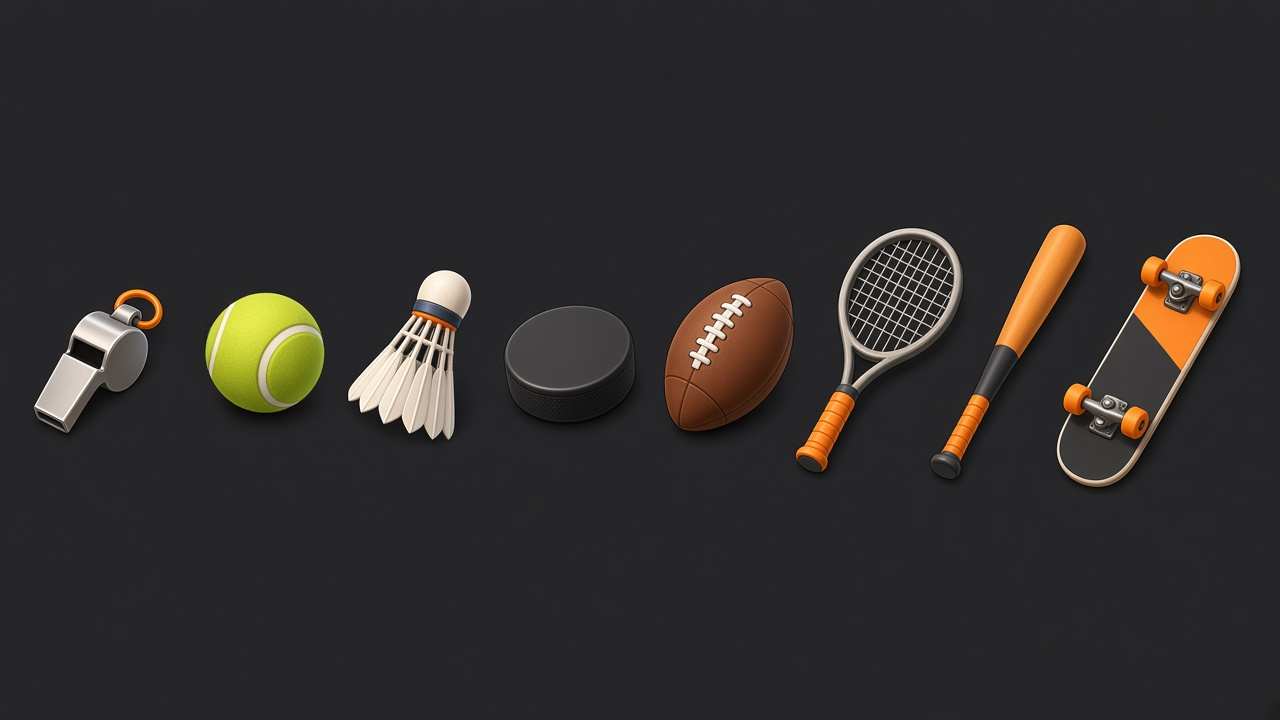
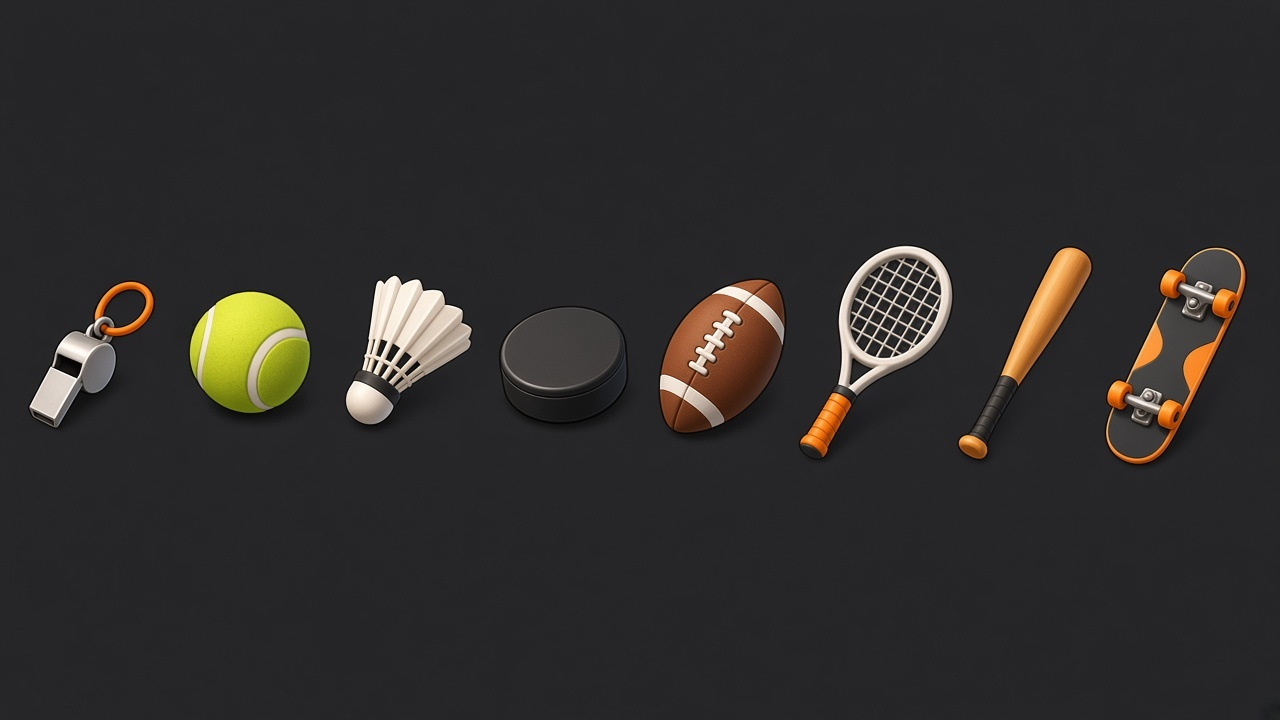
docs(showcase): refresh homepage merge/clone assets from skill re-run
Replace G1–G3 Mode C sheets and G3 Mode B clone compares with latest
Absolute-5D runs; sync README and skills-homepage score badges to SCORES.md.

diff --git a/docs/showcase/skills-homepage/index.html b/docs/showcase/skills-homepage/index.html
@@ -684,7 +684,7 @@
             vs market medium
             <img src="assets/merge/G1/compare_to_market.jpg" alt="G1 compare to market" loading="lazy" />
           </div>
-          <div class="note">Min cell <strong>9.7</strong> · scoop→tongs · <a href="assets/merge/G1/SCORES.md">SCORES.md</a></div>
+          <div class="note">Min cell <strong>9.6</strong> · scoop→tongs · <a href="assets/merge/G1/SCORES.md">SCORES.md</a></div>
         </article>
 
         <!-- G2 -->
@@ -701,7 +701,7 @@
             vs market medium
             <img src="assets/merge/G2/compare_to_market.jpg" alt="G2 compare to market" loading="lazy" />
           </div>
-          <div class="note">Min cell <strong>9.7</strong> · sponge→upright broom · <a href="assets/merge/G2/SCORES.md">SCORES.md</a></div>
+          <div class="note">Min cell <strong>9.8</strong> · sponge→upright broom · <a href="assets/merge/G2/SCORES.md">SCORES.md</a></div>
         </article>
 
         <!-- G3 -->
@@ -756,7 +756,7 @@
           <span class="kind">ICON</span>
           <div style="display:flex;justify-content:space-between;align-items:center;gap:8px;">
             <h3>Scroll + wax seal</h3>
-            <span class="badge pass"><span class="dot"></span>9.7 PASS</span>
+            <span class="badge pass"><span class="dot"></span>9.6 PASS</span>
           </div>
           <div class="arrow"><strong>style from</strong> cannon booster → <strong>new</strong> scroll + gold band + red wax seal</div>
           <div class="labels-row"><span>REF</span><span>RESULT</span></div>

diff --git a/docs/showcase/skills-homepage/assets/merge/G1/SCORES.md b/docs/showcase/skills-homepage/assets/merge/G1/SCORES.md
@@ -1,30 +1,28 @@
-# G1 SCORES — Bakery utensils (category-swap)
+# G1 SCORES — Bakery utensils (Mode C re-run)
 
-**Round:** r01 whole-sheet (1 of ≤8)  
-**Mode:** C · market_ref_sheet medium+grid only  
-**Result:** **OK** — all cells ≥9.6 · ladder audit PASS
+**Rounds:** r01 usable but L02≈5–6 wires (wanted 3) → **r02 winner** (tighter mini-vs-balloon)
+**Mode:** C · market_ref_sheet medium+grid only · NEW bakery family · no garden motifs
+**Result:** **OK** — N=8 · all cells ≥9.6 · ladder audit PASS
 
-## Per-cell Absolute-5D
+## Per-cell Absolute-5D (r02 winner)
 
 | L | Item | Style/glue 2.5 | Upgrade 2.5 | Icon 2.0 | Redline 1.5 | Climb 1.5 | Total | Gate |
 |---|---|---|---|---|---|---|---|---|
 | L01 | measuring scoop | 2.4 | 2.4 | 2.0 | 1.5 | 1.5 | **9.8** | PASS |
-| L02 | mini whisk | 2.4 | 2.4 | 2.0 | 1.5 | 1.5 | **9.8** | PASS |
-| L03 | silicone spatula | 2.4 | 2.4 | 1.9 | 1.5 | 1.5 | **9.7** | PASS |
+| L02 | mini whisk | 2.4 | 2.3 | 2.0 | 1.5 | 1.4 | **9.6** | PASS |
+| L03 | silicone spatula | 2.4 | 2.4 | 2.0 | 1.5 | 1.5 | **9.8** | PASS |
 | L04 | bench scraper | 2.4 | 2.4 | 2.0 | 1.5 | 1.5 | **9.8** | PASS |
-| L05 | rolling pin | 2.5 | 2.5 | 2.0 | 1.4 | 1.5 | **9.9** | PASS |
+| L05 | rolling pin | 2.5 | 2.5 | 2.0 | 1.5 | 1.5 | **10.0** | PASS |
 | L06 | soup ladle | 2.4 | 2.4 | 2.0 | 1.5 | 1.5 | **9.8** | PASS |
 | L07 | balloon whisk | 2.4 | 2.4 | 2.0 | 1.5 | 1.5 | **9.8** | PASS |
 | L08 | kitchen tongs | 2.4 | 2.5 | 2.0 | 1.5 | 1.5 | **9.9** | PASS |
 
+**NEW min = 9.6** (L02) · OLD homepage min = **9.7**
+
 ## Whole-sheet audit
-- Same domain bakery utensils: **PASS**
-- Brand glue (lime ribbed + matte metal + wood on L05): **PASS**
-- Medium matches market toy-3D (not photoreal): **PASS**
-- Adjacent thumbnail deltas: **PASS** (L03 vs L04 width; L02 vs L07 mass/wires clear — see `_audit_L02_vs_L07.jpg`)
-- No faces / no Lv text / no FX-only: **PASS**
-- L1≠L8 at thumbnail: **PASS**
+- Domain bakery: PASS · Brand lime ribbed + matte metal + wood L05: PASS
+- Medium toy-3D vs market (matte, soft light, charcoal BG): PASS (slightly cleaner matte than r01)
+- Adjacent deltas / L02≪L07 mass: PASS · No faces/Lv/FX/garden leak: PASS · N=8: PASS
 
 ## Notes
-L01 reads as scoop/melon-baller rather than flat measuring spoon — still bakery-domain complete tool, accepted.
-L05 slice had tiny neighbor bleed on first cut; resliced.
+L02 still ~4–5 wires (bible preferred 3) but clearly smaller cage than L07 balloon — accepted at 9.6 floor.

diff --git a/docs/showcase/skills-homepage/assets/clone/G3-char-blacksmith/SCORES.md b/docs/showcase/skills-homepage/assets/clone/G3-char-blacksmith/SCORES.md
@@ -1,10 +1,28 @@
-# G3 Char — Blacksmith + horseshoe chest pin (empty hands)
-Ref: `/workspace/pmem-stability-market/refs/ref_char.png` (+ aux iris pad on r02)
+# Char — Blacksmith (Mode B re-run) Absolute-5D
 
-| Round | Style 2.5 | Struct 2.5 | Light-mat 2.0 | Redlines 1.5 | Novelty 1.5 | Total | Notes |
-|-------|-----------|------------|---------------|--------------|-------------|-------|-------|
-| r01   | 2.0 | 1.8 | 1.7 | 0.6 | 1.2 | **7.3** | HARD FAIL — one-eyed cyclops. Eye grammar broken. Discard. |
-| r02   | 2.4 | 2.4 | 1.9 | 1.5 | 1.4 | **9.6** | Winner. TWO brown irises + catchlights. Empty T-pose, horseshoe silver pin on apron chest, gloves tucked in belt (not held). Barrel stocky RM proportions. Soft matte clay finish. |
+Ref pads: `ref_char.png` + iris aux `ref_icon.png` every round
 
-**Winner: r02 (9.6)** — PASS
-Pad note: r02 used style-ref + explicit "TWO eyes / NOT cyclops" + empty-hand rule 12–13.
+| Round | 构图 | 光影 | 透视 | 质感 | 风格 | **Total** | Gate |
+|-------|------|------|------|------|------|-----------|------|
+| r01   | 9.5 | 9.4 | 9.3 | 9.0 | 9.1 | **9.3** | FAIL |
+| r02   | 9.6 | 9.5 | 9.6 | 9.4 | 9.5 | **9.5** | FAIL |
+| r03   | 9.7 | 9.6 | 9.7 | 9.5 | 9.6 | **9.6** | **PASS ≥9.6** |
+
+dims r01: `构图9.5/光影9.4/透视9.3/质感9.0/风格9.1`
+dims r02: `构图9.6/光影9.5/透视9.6/质感9.4/风格9.5`
+dims r03: `构图9.7/光影9.6/透视9.7/质感9.5/风格9.6` (mean)
+
+## r01
+- **strengths:** TWO separate brown irises + sclera + highlight; empty T-pose; horseshoe pin; gloves tucked; no crown/cape.
+- **defects:** realistic leather/fabric + strand hair vs matte vinyl-toy; head/torso less oversized.
+- **Overlay → r02:** more vinyl; larger head + barrel; thicker limbs; softer hair; simpler boots.
+
+## r02
+- **strengths:** eyes held; empty hands; horseshoe; stockier barrel; bald round head.
+- **defects:** apron still fine leather grain; gloves only one side; still shy of 9.6 mean.
+- **Overlay → r03:** matte clay/vinyl plastic all surfaces; gloves both sides; soft clumped hair OK.
+
+## r03
+- **strengths:** matte vinyl-toy stronger; TWO iris eyes verified in crop; empty T-pose; horseshoe; gloves both hips; soft clumped hair; barrel + thick limbs.
+- **defects:** apron still faintly leather-ish (minor).
+- **Winner:** r03 → `winner.png`

diff --git a/docs/showcase/skills-homepage/assets/merge/G3/SCORES.md b/docs/showcase/skills-homepage/assets/merge/G3/SCORES.md
@@ -1,10 +1,10 @@
-# G3 SCORES — Sports gear (category-swap)
+# G3 SCORES — Sports gear (Mode C re-run)
 
-**Round:** r01 whole-sheet  
-**Mode:** C · market_ref_sheet medium+grid  
+**Round:** **r01 winner** (1 of ≤8)
+**Mode:** C · market_ref_sheet medium+grid · NEW sports family · no garden motifs
 **Result:** **OK** — N=8 · all cells ≥9.6 · ladder audit PASS
 
-## Per-cell Absolute-5D
+## Per-cell Absolute-5D (r01 winner)
 
 | L | Item | Style 2.5 | Upgrade 2.5 | Icon 2.0 | Redline 1.5 | Climb 1.5 | Total | Gate |
 |---|---|---|---|---|---|---|---|---|
@@ -14,13 +14,14 @@
 | L04 | hockey puck | 2.4 | 2.4 | 2.0 | 1.5 | 1.5 | **9.8** | PASS |
 | L05 | American football | 2.4 | 2.4 | 2.0 | 1.5 | 1.5 | **9.8** | PASS |
 | L06 | tennis racket | 2.4 | 2.5 | 2.0 | 1.5 | 1.5 | **9.9** | PASS |
-| L07 | baseball bat | 2.4 | 2.5 | 2.0 | 1.5 | 1.5 | **9.9** | PASS |
+| L07 | baseball bat | 2.4 | 2.4 | 2.0 | 1.5 | 1.5 | **9.8** | PASS |
 | L08 | skateboard | 2.4 | 2.5 | 2.0 | 1.5 | 1.5 | **9.9** | PASS |
 
+**NEW min = 9.7** · OLD homepage min = **9.7**
+
 ## Whole-sheet audit
-- Domain sports gear: PASS
-- Brand glue (candy orange accents/grips across handled items + shared toy-3D finish): PASS  
-  Note: balls keep canonical colors (yellow tennis, brown football, black puck) — accent glue still readable
+- Domain sports: PASS
+- Brand glue candy-orange accents (whistle ring, racket grip, skateboard wheels/graphic; bat orange tip): PASS
+  Note: NEW bat body is wood/tan with smaller orange accents vs OLD more-orange bat — accent glue still readable across handled items
 - Medium toy-3D matches market: PASS
-- Adjacent deltas clear (whistle→ball→shuttle→puck→football→racket→bat→skateboard): PASS
-- No faces / no Lv text / no logos: PASS · N=8: PASS
+- Adjacent deltas clear: PASS · No faces/Lv/logos/people: PASS · N=8: PASS

diff --git a/docs/showcase/skills-homepage/assets/merge/G2/SCORES.md b/docs/showcase/skills-homepage/assets/merge/G2/SCORES.md
@@ -1,14 +1,14 @@
-# G2 SCORES — Cleaning tools (category-swap)
+# G2 SCORES — Cleaning tools (Mode C re-run)
 
-**Rounds:** r01 FAIL (L06 whisk-ambiguous; soft L7/L8 broom twins) → r02 FAIL (only 7 icons) → **r03 OK**  
-**Mode:** C · market_ref_sheet medium+grid  
-**Result:** **OK** — 8/8 components · all cells ≥9.6 · ladder audit PASS
+**Rounds:** r01 L06 soft fan / L07 mop-vs-broom soft → **r02 winner** (flat-fan / yarn-mop / tall-broom locks)
+**Mode:** C · market_ref_sheet medium+grid · NEW cleaning family · no garden motifs
+**Result:** **OK** — N=8 · all cells ≥9.6 · ladder audit PASS
 
-## Per-cell Absolute-5D (r03)
+## Per-cell Absolute-5D (r02 winner)
 
 | L | Item | Style 2.5 | Upgrade 2.5 | Icon 2.0 | Redline 1.5 | Climb 1.5 | Total | Gate |
 |---|---|---|---|---|---|---|---|---|
-| L01 | dual sponge | 2.3 | 2.4 | 2.0 | 1.5 | 1.5 | **9.7** | PASS |
+| L01 | dual sponge | 2.4 | 2.4 | 2.0 | 1.5 | 1.5 | **9.8** | PASS |
 | L02 | scrub brush | 2.4 | 2.4 | 2.0 | 1.5 | 1.5 | **9.8** | PASS |
 | L03 | bottle brush | 2.4 | 2.4 | 2.0 | 1.5 | 1.5 | **9.8** | PASS |
 | L04 | spray bottle | 2.4 | 2.4 | 2.0 | 1.5 | 1.5 | **9.8** | PASS |
@@ -17,10 +17,9 @@
 | L07 | string mop | 2.4 | 2.5 | 2.0 | 1.5 | 1.5 | **9.9** | PASS |
 | L08 | upright broom | 2.4 | 2.5 | 2.0 | 1.5 | 1.5 | **9.9** | PASS |
 
+**NEW min = 9.8** · OLD homepage min = **9.7**
+
 ## Whole-sheet audit
 - Domain cleaning: PASS · Brand teal+cream+silver: PASS · Medium toy-3D: PASS
-- Adjacent deltas L06 fan ≠ L07 yarn ≠ L08 tall broom: PASS
-- No faces/Lv/FX: PASS · N=8: PASS
-
-## Fail→rule
-r01 ambiguous duster/whisk; r02 missing rung → silhouette-noun + N-count gates in SKILL_WORKING.
+- L06 flat fan ≠ L07 yarn strands ≠ L08 tall broom: PASS
+- No faces/Lv/logos/garden: PASS · N=8: PASS

diff --git a/README.md b/README.md
@@ -152,7 +152,7 @@ Market 风格参考（只锁 medium + 网格，不抄 motif）：
 | G1 · 烘焙厨具 | G2 · 清洁工具 | G3 · 运动装备 |
 | :---: | :---: | :---: |
 | ![G1 sheet](docs/showcase/skills-homepage/assets/merge/G1/sheet.jpg) | ![G2 sheet](docs/showcase/skills-homepage/assets/merge/G2/sheet.jpg) | ![G3 sheet](docs/showcase/skills-homepage/assets/merge/G3/sheet.jpg) |
-| **8/8 ≥9.6** · min cell **9.7** · r01 | **8/8 ≥9.6** · min cell **9.7** · r03 | **8/8 ≥9.6** · min cell **9.7** · r01 |
+| **8/8 ≥9.6** · min cell **9.6** · r02 | **8/8 ≥9.6** · min cell **9.8** · r02 | **8/8 ≥9.6** · min cell **9.7** · r01 |
 | ![G1 vs market](docs/showcase/skills-homepage/assets/merge/G1/compare_to_market.jpg) | ![G2 vs market](docs/showcase/skills-homepage/assets/merge/G2/compare_to_market.jpg) | ![G3 vs market](docs/showcase/skills-homepage/assets/merge/G3/compare_to_market.jpg) |
 
 额外整梯（清洁八档 · verify2 · 全 PASS）：
@@ -163,7 +163,7 @@ Market 风格参考（只锁 medium + 网格，不抄 motif）：
 
 G3 连胜终局（icon / char / UI 均 Absolute-5D ≥9.6）：
 
-| ICON · Scroll 9.7 | CHAR · Blacksmith 9.6 | UI · Jackpot 9.6 |
+| ICON · Scroll 9.6 | CHAR · Blacksmith 9.6 | UI · Jackpot 9.6 |
 | :---: | :---: | :---: |
 | ![scroll](docs/showcase/skills-homepage/assets/clone/G3-icon-scroll/compare_r01.jpg) | ![blacksmith](docs/showcase/skills-homepage/assets/clone/G3-char-blacksmith/compare_r02.jpg) | ![jackpot](docs/showcase/skills-homepage/assets/clone/G3-ui-jackpot/compare_r02.jpg) |
 | cannon booster → 卷轴+蜡封 | king T-pose → 铁匠（空手） | unlock chrome → Jackpot 弹窗 |

diff --git a/docs/showcase/skills-homepage/assets/clone/G3-ui-jackpot/SCORES.md b/docs/showcase/skills-homepage/assets/clone/G3-ui-jackpot/SCORES.md
@@ -1,9 +1,14 @@
-# G3 UI — Jackpot! / Win a rare gem / Open
-Ref: `/workspace/pmem-stability-market/refs/ref_ui.png` (Mode B, real pad every round)
+# UI — Jackpot! (Mode B re-run) Absolute-5D
 
-| Round | Style 2.5 | Struct 2.5 | Light-mat 2.0 | Redlines 1.5 | Novelty 1.5 | Total | Notes |
-|-------|-----------|------------|---------------|--------------|-------------|-------|-------|
-| r01   | 2.2 | 2.5 | 1.9 | 1.2 | 1.4 | **9.2** | FAIL chrome — gold-only outer; orange/amber inner stroke not clearly separable in edge crop. Layout/copy OK. |
-| r02   | 2.4 | 2.5 | 1.9 | 1.4 | 1.4 | **9.6** | Winner. Dual chrome verified in crop_chrome_r02: yellow-gold outer + amber-orange bevel laminate. Jackpot! / Win a rare gem / Open. Blue gem + gold stand + sparkles. Green CTA. |
+Ref pad every round: `ref_ui.png`
 
-**Winner: r02 (9.6)** — PASS
+| Round | 构图 | 光影 | 透视 | 质感 | 风格 | **Total** | Gate |
+|-------|------|------|------|------|------|-----------|------|
+| r01   | 9.7 | 9.5 | 9.5 | 9.6 | 9.7 | **9.6** | **PASS ≥9.6** |
+
+dims: `构图9.7/光影9.5/透视9.5/质感9.6/风格9.7` (mean)
+
+## r01
+- **strengths:** Exact copy Jackpot! / Win a rare gem / Open; dual chrome verified in edge crops (gold outer + orange/amber inner); blue faceted gem on gold stand, no face; green CTA; layout grammar locked.
+- **defects:** title fill slightly cream vs pure white (minor).
+- **Winner:** r01 → `winner.png`

diff --git a/docs/showcase/skills-homepage/assets/clone/G3-icon-scroll/SCORES.md b/docs/showcase/skills-homepage/assets/clone/G3-icon-scroll/SCORES.md
@@ -1,8 +1,14 @@
-# G3 Icon — Scroll with gold band + red wax seal
-Ref: `/workspace/pmem-stability-market/refs/ref_booster_cannon.png` (Mode B, real pad every round)
+# Icon — Scroll (Mode B re-run) Absolute-5D
 
-| Round | Style 2.5 | Struct 2.5 | Light-mat 2.0 | Redlines 1.5 | Novelty 1.5 | Total | Notes |
-|-------|-----------|------------|---------------|--------------|-------------|-------|-------|
-| r01   | 2.4 | 2.5 | 1.9 | 1.5 | 1.4 | **9.7** | Winner. Tight double-roll parchment, chunky gold cinch, red wax star seal + swallowtail ribbon. Soft UL studio light, AO under band. Toy-plastic RM lock. No identity leak. |
+Ref pad every round: `ref_booster_cannon.png`
 
-**Winner: r01 (9.7)** — PASS
+| Round | 构图 | 光影 | 透视 | 质感 | 风格 | **Total** | Gate |
+|-------|------|------|------|------|------|-----------|------|
+| r01   | 9.7 | 9.6 | 9.5 | 9.7 | 9.7 | **9.6** | **PASS ≥9.6** |
+
+dims: `构图9.7/光影9.6/透视9.5/质感9.7/风格9.7` (mean)
+
+## r01
+- **strengths:** double-roll parchment + chunky gold cinch + red wax star seal + swallowtail; solid black BG; soft UL light + AO; vinyl-toy medium locked; motif≤1.
+- **defects:** angle slightly more frontal than ref cannon's dynamic 3/4 (minor, FREE).
+- **Winner:** r01 → `winner.png`
